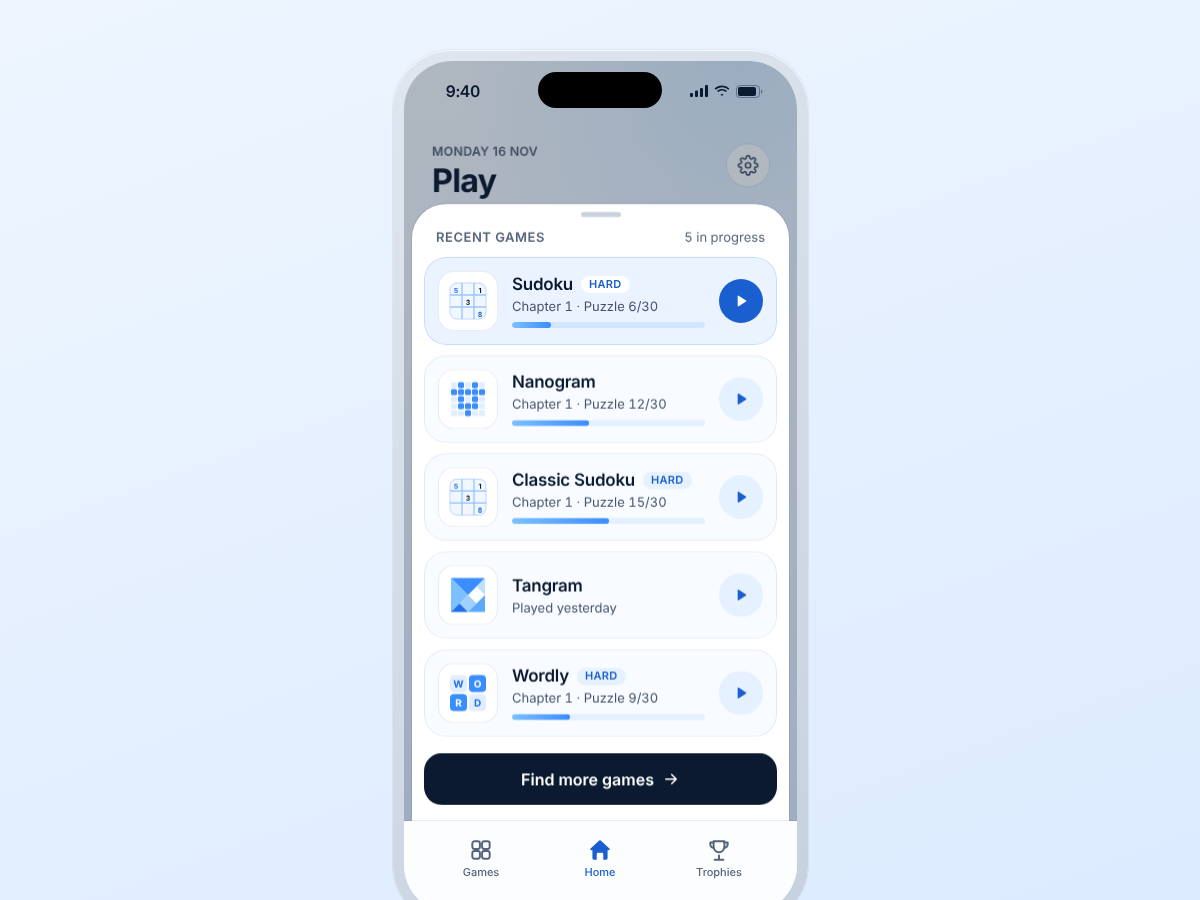
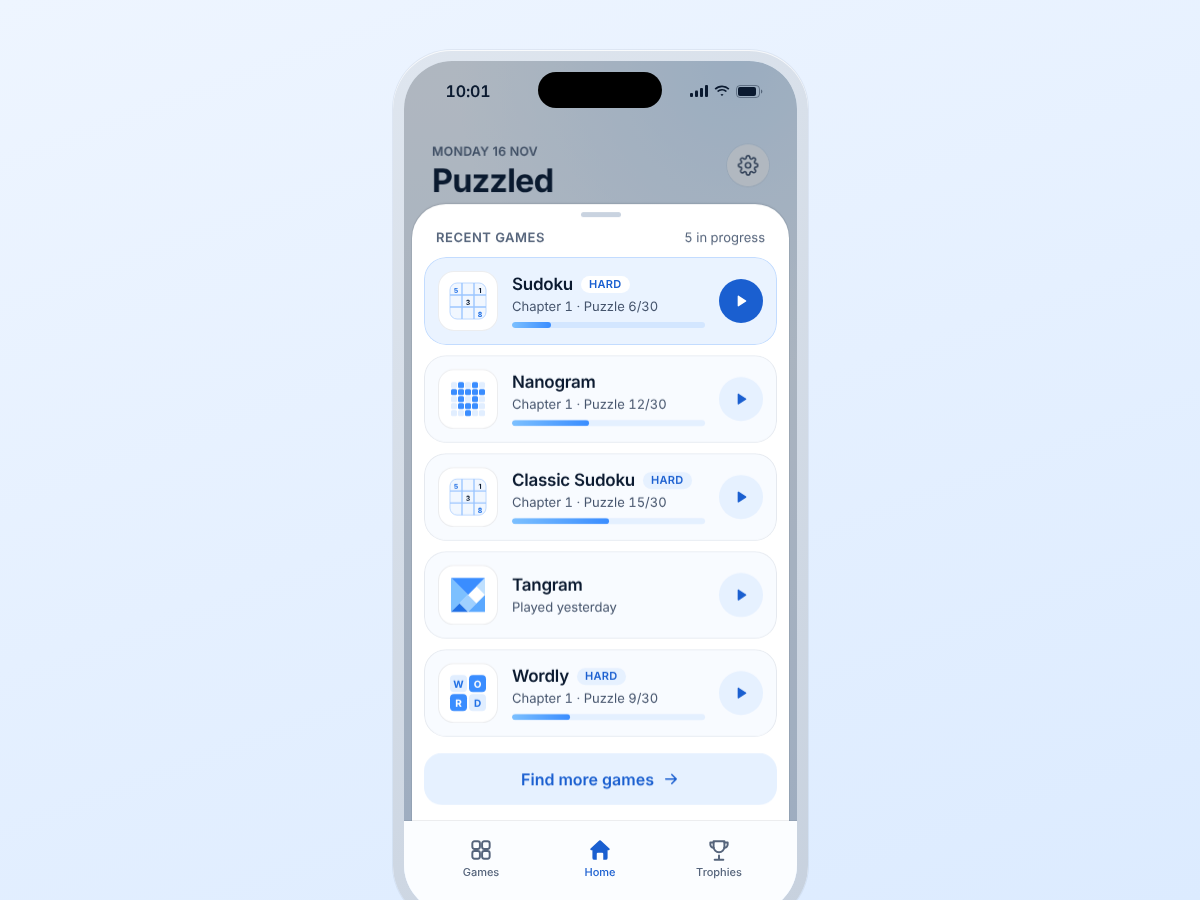
Next Games prototype: title the Home screen Puzzled, quiet the long button
Home's large title reads Puzzled instead of Play. Find more games drops
its near-black fill for the light blue tint the secondary play buttons
use, so it no longer outweighs the list above it. Cover regenerated.

Claude-Session: https://claude.ai/code/session_01XFxHD8w4HQtLUnRGHytL8t

diff --git a/public/prototypes/next-games/index.html b/public/prototypes/next-games/index.html
@@ -396,8 +396,8 @@
     display: flex; align-items: center; justify-content: center; gap: 8px;
     height: 52px;
     border-radius: 18px;
-    background: var(--ink);
-    color: #fff;
+    background: var(--blue-soft);
+    color: var(--blue-deep);
     font: 600 16px/1 var(--font-display);
     opacity: 0;
     pointer-events: none;
@@ -531,7 +531,7 @@
             <div class="top">
               <div>
                 <p class="greet-date" id="today">Monday 16 Nov</p>
-                <p class="greet-title">Play</p>
+                <p class="greet-title">Puzzled</p>
               </div>
               <button class="round-btn" type="button" aria-label="Settings">
                 <svg width="22" height="22" viewBox="0 0 24 24" fill="none" stroke="currentColor" stroke-width="1.8" stroke-linecap="round" stroke-linejoin="round"><circle cx="12" cy="12" r="3"/><path d="M19.4 15a1.7 1.7 0 0 0 .3 1.8l.1.1a2 2 0 1 1-2.8 2.8l-.1-.1a1.7 1.7 0 0 0-1.8-.3 1.7 1.7 0 0 0-1 1.5V21a2 2 0 1 1-4 0v-.1a1.7 1.7 0 0 0-1.1-1.5 1.7 1.7 0 0 0-1.8.3l-.1.1a2 2 0 1 1-2.8-2.8l.1-.1a1.7 1.7 0 0 0 .3-1.8 1.7 1.7 0 0 0-1.5-1H3a2 2 0 1 1 0-4h.1a1.7 1.7 0 0 0 1.5-1.1 1.7 1.7 0 0 0-.3-1.8l-.1-.1a2 2 0 1 1 2.8-2.8l.1.1a1.7 1.7 0 0 0 1.8.3H9a1.7 1.7 0 0 0 1-1.5V3a2 2 0 1 1 4 0v.1a1.7 1.7 0 0 0 1 1.5 1.7 1.7 0 0 0 1.8-.3l.1-.1a2 2 0 1 1 2.8 2.8l-.1.1a1.7 1.7 0 0 0-.3 1.8V9a1.7 1.7 0 0 0 1.5 1H21a2 2 0 1 1 0 4h-.1a1.7 1.7 0 0 0-1.5 1z"/></svg>
